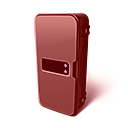
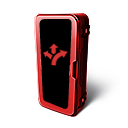
Adding the picker first pass

diff --git a/SubnauticaModSystem/AutosortLockers/AutosortTypePicker.cs b/SubnauticaModSystem/AutosortLockers/AutosortTypePicker.cs
@@ -1,0 +1,74 @@
+using Common.Utility;
+using System;
+using System.Collections.Generic;
+using System.Linq;
+using System.Text;
+using UnityEngine;
+using UnityEngine.UI;
+
+namespace AutosortLockers
+{
+	public class AutosortTypePicker : MonoBehaviour
+	{
+		[SerializeField]
+		private AutosortTarget locker;
+		[SerializeField]
+		private VerticalLayoutGroup currentList;
+		[SerializeField]
+		private VerticalLayoutGroup availableList;
+		[SerializeField]
+		private Image background;
+
+		public void Initialize(AutosortTarget locker)
+		{
+			this.locker = locker;
+			background.sprite = ImageUtils.Load9SliceSprite(Mod.GetAssetPath("BindingBackground.png"), new RectOffset(20, 20, 20, 20));
+		}
+
+		public void OnCurrentListItemClick(TechType techType)
+		{
+			var allowedTypes = locker.GetTechTypes();
+			allowedTypes.Remove(techType);
+			locker.SetTechTypes(allowedTypes);
+		}
+
+		public void OnAvailableListItemClick(TechType techType)
+		{
+			var allowedTypes = locker.GetTechTypes();
+			if (allowedTypes.Count >= AutosortTarget.MaxTypes)
+			{
+				return;
+			}
+			if (allowedTypes.Contains(techType))
+			{
+				return;
+			}
+
+			allowedTypes.Add(techType);
+			locker.SetTechTypes(allowedTypes);
+		}
+
+
+
+		public static AutosortTypePicker Create(Transform parent)
+		{
+			var picker = LockerPrefabShared.CreateCanvas(parent).gameObject.AddComponent<AutosortTypePicker>();
+
+			var t = picker.transform;
+			t.localEulerAngles = new Vector3(0, 180, 0);
+			t.localPosition = new Vector3(0, 0, 0.5f);
+
+			picker.background = LockerPrefabShared.CreateBackground(picker.transform);
+			RectTransformExtensions.SetSize(picker.background.rectTransform, 240, 200);
+			picker.background.color = new Color(1, 1, 1);
+
+			// Create current list
+
+			// Create Available list
+
+			// Create available list pagination
+
+			return picker;
+		}
+	}
+}

diff --git a/SubnauticaModSystem/AutosortLockers/AutosortTarget.cs b/SubnauticaModSystem/AutosortLockers/AutosortTarget.cs
@@ -11,6 +11,8 @@ namespace AutosortLockers
 {
 	public class AutosortTarget : MonoBehaviour
 	{
+		public const int MaxTypes = 7;
+
 		private bool initialized;
 		private Constructable constructable;
 		private StorageContainer container;
@@ -22,12 +24,19 @@ namespace AutosortLockers
 		[SerializeField]
 		private Text text;
 		[SerializeField]
+		private AutosortTypePicker picker;
+		[SerializeField]
 		private HashSet<TechType> allowedTypes;
 
 		private void Awake()
 		{
 			constructable = GetComponent<Constructable>();
 			container = gameObject.GetComponent<StorageContainer>();
+		}
+
+		public HashSet<TechType> GetTechTypes()
+		{
+			return allowedTypes;
 		}
 
 		public void SetTechTypes(HashSet<TechType> types)
@@ -74,6 +83,8 @@ namespace AutosortLockers
 			{
 				return;
 			}
+
+			container.enabled = !picker.isActiveAndEnabled;
 		}
 
 		private void Initialize()
@@ -86,6 +97,8 @@ namespace AutosortLockers
 
 			background.sprite = ImageUtils.Load9SliceSprite(Mod.GetAssetPath("BindingBackground.png"), new RectOffset(20, 20, 20, 20));
 			icon.sprite = ImageUtils.LoadSprite(Mod.GetAssetPath("Receptacle.png"));
+
+			picker.Initialize(this);
 
 			SetTechTypes(new HashSet<TechType>() {
 				TechType.Titanium,
@@ -170,6 +183,9 @@ namespace AutosortLockers
 			autosortTarget.background.gameObject.SetActive(false);
 			autosortTarget.icon.gameObject.SetActive(false);
 			autosortTarget.text.gameObject.SetActive(false);
+
+			autosortTarget.picker = AutosortTypePicker.Create(prefab.transform);
+			autosortTarget.picker.gameObject.SetActive(false);
 
 			return prefab;
 		}
